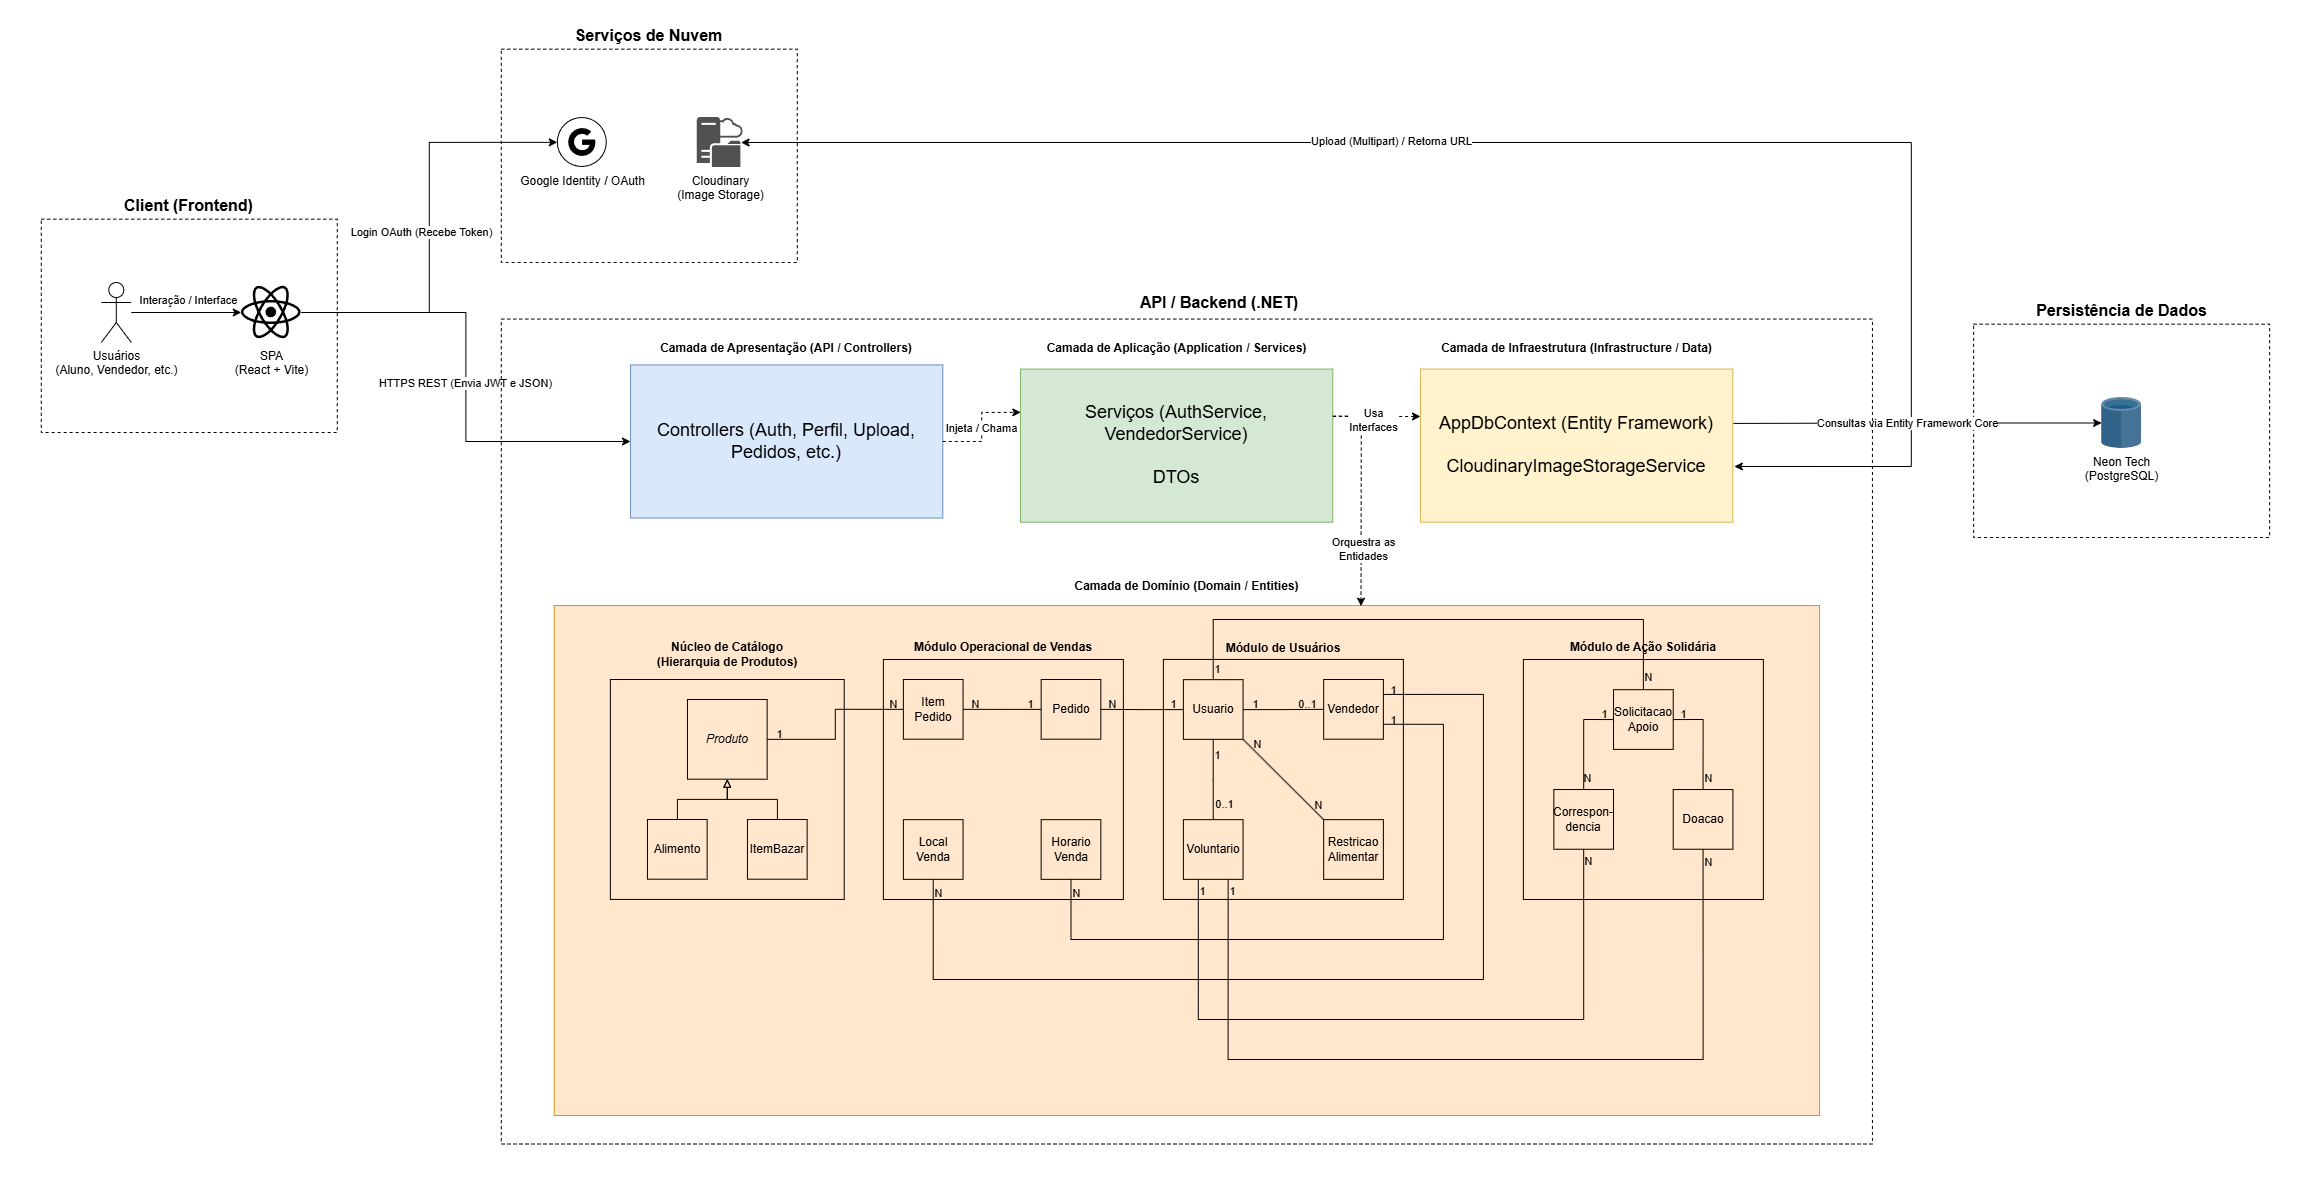
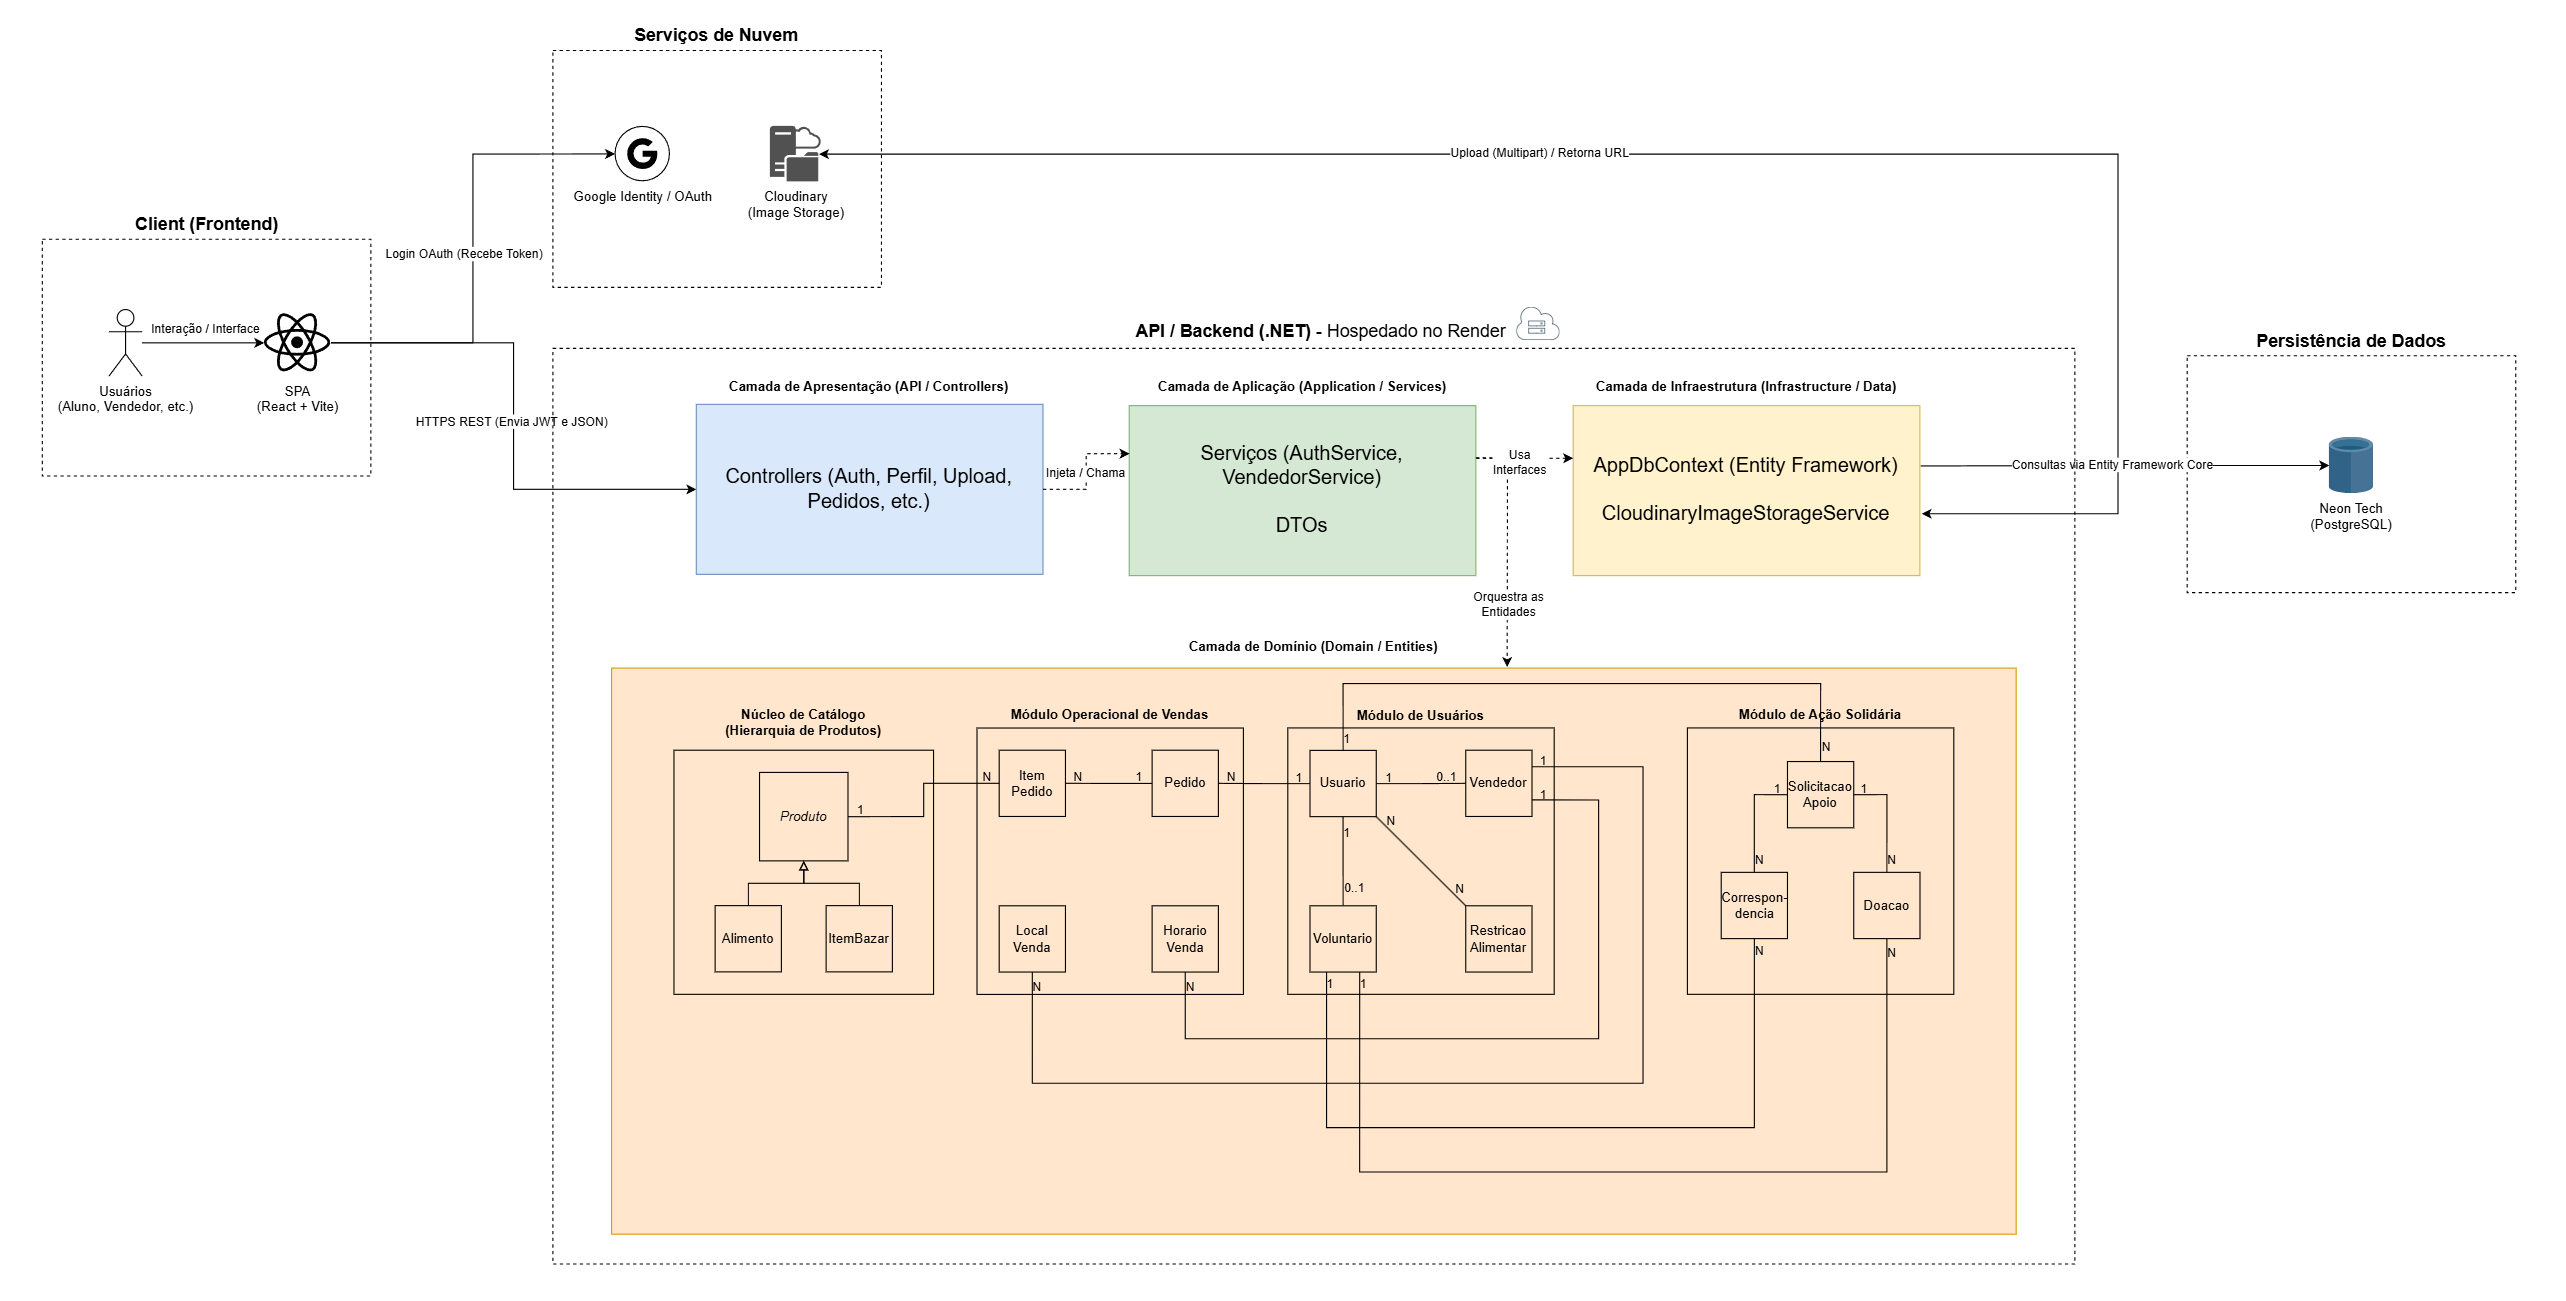
Adequações para o Deploy (#39)
* Adequações para o Deploy

* Add Issuer to JwtSettings in appsettings.json

* chore(deploy): habilita o swagger para a validacao da Sprint 3

* novo diagrama arquitetural

diff --git a/Backend/Program.cs b/Backend/Program.cs
@@ -15,8 +15,16 @@ using UniHub.Infrastructure.Repositories;
 using UniHub.Application.Interfaces.AcaoSolidaria;
 using UniHub.Infrastructure.Repositories.AcaoSolidaria;
 
-
 var builder = WebApplication.CreateBuilder(args);
+
+// Render (e containers em geral) definem a porta de escuta via variavel PORT
+// e esperam a app escutando em 0.0.0.0. Localmente PORT nao existe, entao o
+// launchSettings continua valendo e o fluxo de desenvolvimento nao muda.
+var port = Environment.GetEnvironmentVariable("PORT");
+if (!string.IsNullOrWhiteSpace(port))
+{
+    builder.WebHost.UseUrls($"http://0.0.0.0:{port}");
+}
 
 builder.Services.AddControllers();
 
@@ -26,9 +34,18 @@ builder.Services.Configure<CloudinarySettings>(
 builder.Services.AddSingleton<IImageStorageService, CloudinaryImageStorageService>();
 
 builder.Services.AddDbContext<AppDbContext>(options =>
-    options.UseNpgsql(builder.Configuration.GetConnectionString("DefaultConnection"))
-           .EnableSensitiveDataLogging() // mostra os valores reais dos parametros no log
-           .LogTo(Console.WriteLine, Microsoft.Extensions.Logging.LogLevel.Information));
+{
+    options.UseNpgsql(builder.Configuration.GetConnectionString("DefaultConnection"));
+
+    // EnableSensitiveDataLogging expoe valores reais dos parametros (inclusive
+    // dados pessoais) no log -- util para depurar localmente, mas um risco de
+    // vazamento (e de violacao da LGPD) em producao. Fica restrito a Development.
+    if (builder.Environment.IsDevelopment())
+    {
+        options.EnableSensitiveDataLogging()
+               .LogTo(Console.WriteLine, Microsoft.Extensions.Logging.LogLevel.Information);
+    }
+});
 
 builder.Services.AddScoped<AuthService>();
 builder.Services.AddScoped<VendedorService>();
@@ -104,9 +121,21 @@ builder.Services.AddCors(options =>
         }
         else
         {
-            // Em produção, usa o WithOrigins para travar a API apenas para o domínio oficial
-            // Colocamos URLs de exemplo que a equipe do Front poderá ajustar depois
-            policy.WithOrigins("https://unihub.com.br", "https://unihub-app.vercel.app") 
+            // Em producao, trava a API apenas para o(s) dominio(s) oficial(is) do
+            // frontend. As origens vem da configuracao "Cors:AllowedOrigins"
+            // (definida via variavel de ambiente Cors__AllowedOrigins__0,
+            // Cors__AllowedOrigins__1, ...), com fallback para os dominios de
+            // exemplo caso nada seja configurado.
+            var allowedOrigins = builder.Configuration
+                .GetSection("Cors:AllowedOrigins")
+                .Get<string[]>();
+
+            if (allowedOrigins is null || allowedOrigins.Length == 0)
+            {
+                allowedOrigins = ["https://unihub.com.br", "https://unihub-app.vercel.app"];
+            }
+
+            policy.WithOrigins(allowedOrigins)
                   .AllowAnyMethod()
                   .AllowAnyHeader();
         }
@@ -115,11 +144,13 @@ builder.Services.AddCors(options =>
 
 var app = builder.Build();
 
-if (app.Environment.IsDevelopment())
-{
-    app.UseSwagger();
-    app.UseSwaggerUI();
-}
+// Swagger habilitado tambem em producao para validacao/testes online da API
+// durante a Sprint 3 (frontend ainda nao desenvolvido). O time testa via
+// Swagger + "Authorize" com token obtido no Google OAuth Playground.
+// TODO: considerar restringir/desligar apos a entrega, quando o front assumir.
+app.UseSwagger();
+app.UseSwaggerUI();
+
 
 app.UseCors("PermitirFrontend");
 
@@ -128,5 +159,13 @@ app.UseAuthentication();
 app.UseAuthorization();
 
 app.MapControllers();
+
+// Health check leve e publico. Serve a dois propositos:
+// 1. Render usa para saber se o servico subiu com sucesso.
+// 2. Pode ser pingado por um cron (ex: cron-job.org) a cada ~10min para evitar
+//    o spin down do plano free (15min de inatividade) e para "aquecer" o Neon
+//    antes do teste de concorrencia, mitigando o cold start.
+app.MapGet("/health", () => Results.Ok(new { status = "ok", time = DateTime.UtcNow }))
+   .AllowAnonymous();
 
 app.Run();

diff --git a/DEPLOY.md b/DEPLOY.md
@@ -1,0 +1,222 @@
+# Deploy da API UniHub — Render + Neon
+
+Runbook do **Squad 4 (Deploy)**. Descreve como publicar a API .NET 10 no
+**Render** (plano free), mantendo o banco no **Neon** (Postgres serverless),
+conforme decisão do time.
+
+> **Por que Render e não AWS EC2 / RDS?** O enunciado original mencionava
+> EC2 + RDS, mas o time optou por **Neon** (Postgres serverless, scale-to-zero,
+> branching por squad) e **Render** para a API (sem cartão de crédito, HTTPS
+> automático, deploy a partir do repositório). Vale registrar essa justificativa
+> na apresentação final para antecipar a pergunta da banca.
+
+---
+
+## 1. Arquitetura de deploy
+
+```
+  Frontend (React + Vite, hospedado à parte)
+            │  HTTPS
+            ▼
+  Render  ──►  Container Docker da API (.NET 10, plano free)
+            │  Postgres via SSL (connection string com pooling)
+            ▼
+  Neon (Postgres serverless)
+            ▲
+  Cloudinary (armazenamento de imagens, chamado pela API)
+```
+
+- A API sobe como **container Docker** (`Backend/Dockerfile`).
+- O Render fornece **HTTPS automático** em `https://<nome>.onrender.com`.
+- Nenhum segredo fica no repositório — tudo vem de **variáveis de ambiente**
+  no painel do Render (seção 4).
+
+---
+
+## 2. Arquivos de deploy neste repositório
+
+| Arquivo | Papel |
+|---|---|
+| `Backend/Dockerfile` | Build multi-stage da API (.NET 10), imagem enxuta. |
+| `Backend/.dockerignore` | Evita enviar segredos/lixo para a imagem. |
+| `Backend/appsettings.Production.json` | Overrides de produção (logging). **Sem segredos.** |
+| `render.yaml` | Blueprint do serviço Render (infra como código). |
+| `.github/workflows/ci.yml` | CI: build + checagem de migrations + build Docker. |
+| `Backend/Program.cs` | Lê `PORT`; expõe `/health`; CORS por env var; log sensível só em Development. |
+| `Backend/appsettings.json` | Chave JWT como placeholder (segredo nunca versionado). |
+
+---
+
+## 3. Pré-requisitos
+
+- Conta no [Render](https://render.com) (login com o GitHub da organização).
+- Acesso ao projeto no **Neon** e à *connection string com pooling*.
+- Credenciais do **Cloudinary** (CloudName, ApiKey, ApiSecret).
+- Uma chave para o **JWT** com **pelo menos 32 caracteres** (gere uma nova —
+  a antiga, que esteve versionada, é considerada comprometida).
+
+---
+
+## 4. Variáveis de ambiente de produção
+
+O ASP.NET Core mapeia variáveis de ambiente para a configuração usando `__`
+(duplo underline) no lugar de `:`. Defina todas no painel do Render
+(**Environment**) ou deixe o `render.yaml` solicitá-las na criação do Blueprint.
+
+| Variável | Exemplo / Observação |
+|---|---|
+| `ASPNETCORE_ENVIRONMENT` | `Production` (ativa CORS restrito e desliga Swagger). |
+| `ConnectionStrings__DefaultConnection` | String do Neon **com pooling e SSL** (seção 5). |
+| `JwtSettings__SecureKey` | Chave secreta ≥ 32 caracteres (nova). |
+| `Cloudinary__CloudName` | Do painel do Cloudinary. |
+| `Cloudinary__ApiKey` | Do painel do Cloudinary. |
+| `Cloudinary__ApiSecret` | Do painel do Cloudinary. |
+| `Cors__AllowedOrigins__0` | URL do frontend, ex.: `https://unihub-app.vercel.app`. |
+| `Cors__AllowedOrigins__1` | (Opcional) origem adicional. |
+| `PORT` | **Injetada automaticamente pelo Render** — não definir manualmente. |
+
+> ⚠ **Nunca** cole a connection string, a chave JWT ou segredos do Cloudinary
+> em arquivos versionados. O `appsettings.json` só tem placeholders.
+
+---
+
+## 5. Connection string do Neon (pooling + SSL)
+
+Use **sempre** o endpoint com pooling (o host costuma ter `-pooler` no nome).
+A conexão direta esgota o limite de conexões sob carga.
+
+Formato (Npgsql):
+
+```
+Host=<endpoint>-pooler.<regiao>.aws.neon.tech;Database=unihub;Username=<user>;Password=<senha>;SSL Mode=Require;Channel Binding=Require;Pooling=true
+```
+
+- `SSL Mode=Require` + `Channel Binding=Require`: o Neon exige TLS.
+- O Neon aceita conexões de qualquer IP com SSL por padrão, então **não é
+  necessário liberar IP** para o Render. (O IP de saída do plano free do Render
+  não é fixo, então restrição por IP não é recomendada aqui.)
+
+---
+
+## 6. Migrations desta sprint (aplicar ANTES do primeiro deploy)
+
+O banco de produção precisa ter **todas** as migrations do projeto aplicadas,
+nesta ordem:
+
+1. `InicialConsolidada` — schema base (usuários, produtos, pedidos, e as tabelas
+   de Ação Solidária no singular).
+2. `AdicionaChavePixVendedor` (#35) — coluna `ChavePix` em `Vendedores`.
+3. `AdicionaModuloAcaoSolidaria` (#38) — ajusta o módulo de Ação Solidária:
+   renomeia tabelas para o plural, converte `Categoria`/`AreasDeAtuacao` de
+   texto para enum (via `USING`), e adiciona as FKs com `Restrict`.
+
+> ⚠ **Atenção à migration #38:** ela faz conversão de tipo (`text` → `integer`)
+> usando cláusula `USING`. Isso só roda sem erro se as tabelas de Ação Solidária
+> estiverem **vazias** ou com dados convertíveis. Em produção limpa, é seguro.
+
+**A API NÃO aplica migrations automaticamente no startup** (proposital, para um
+deploy nunca rodar uma migration incompleta sob concorrência). O responsável
+(Guardião de Migrations) aplica manualmente:
+
+```bash
+cd Backend
+# Aponte a connection string para o Neon de produção nesta sessão:
+export ConnectionStrings__DefaultConnection="Host=...-pooler...;Database=unihub;...;SSL Mode=Require;Pooling=true"
+
+# Confira o que será aplicado (sem executar)
+dotnet ef migrations list
+
+# Aplique
+dotnet ef database update
+```
+
+> 💡 **Fluxo seguro (recomendado):** use o **branching do Neon** — crie uma
+> branch do banco, aplique e teste a migration nela primeiro, e só então aplique
+> na branch de produção. Se algo der errado, descarte a branch sem afetar nada.
+
+---
+
+## 7. Passo a passo do deploy
+
+### Opção A — via Blueprint (recomendada, usa `render.yaml`)
+
+1. No Render: **New** → **Blueprint**.
+2. Conecte o repositório `UniHub-University/UniHub` e selecione a branch `main`.
+3. O Render lê o `render.yaml` e cria o serviço `unihub-api`.
+4. Preencha os segredos marcados como `sync: false` (connection string, JWT,
+   Cloudinary) quando solicitado.
+5. Confirme e aguarde o primeiro build/deploy.
+
+### Opção B — serviço manual
+
+1. **New** → **Web Service** → conecte o repositório.
+2. **Runtime:** Docker. **Dockerfile Path:** `Backend/Dockerfile`.
+   **Docker Context:** `Backend`.
+3. **Plan:** Free.
+4. **Health Check Path:** `/health`.
+5. Adicione as variáveis de ambiente da seção 4.
+6. **Create Web Service**.
+
+---
+
+## 8. Cold start (Neon + Render free) — relevante para testes de carga
+
+Dois cold starts se somam no plano free:
+
+1. **Render** derruba o serviço após **15 min** sem tráfego; a próxima
+   requisição espera o container subir (~dezenas de segundos).
+2. **Neon** hiberna quando ocioso; a primeira query tem latência extra.
+
+Antes de medir o teste de concorrência **em produção**, "aqueça" os dois:
+
+```bash
+# Aquece o Render (sobe o container) e o Neon (primeira query).
+curl -s https://<nome>.onrender.com/health
+# Faça mais 1-2 chamadas que toquem o banco antes de iniciar a medição.
+```
+
+Para evitar o spin down durante uma demonstração, aponte um cron externo
+(ex.: cron-job.org) para `GET /health` a cada ~10 minutos. Lembrete: o plano
+free do Render tem cota de ~750h/mês por workspace — manter o serviço acordado
+24/7 consome quase toda a cota.
+
+---
+
+## 9. Teste de fumaça pós-deploy (fazer em produção, não só local)
+
+```bash
+BASE=https://<nome>.onrender.com
+
+# 1. Health check
+curl -s $BASE/health                                   # espera {"status":"ok",...}
+
+# 2. Rota protegida sem token deve dar 401
+curl -s -o /dev/null -w "%{http_code}
+" $BASE/api/perfil   # espera 401
+```
+
+Checklist de validação em produção:
+
+- [ ] `/health` responde 200.
+- [ ] Swagger **não** aparece em produção (só em Development) — esperado.
+- [ ] Rota `[Authorize]` rejeita chamada sem token (401).
+- [ ] Login Google emite JWT e rota protegida aceita o token.
+- [ ] CORS libera o domínio real do frontend e bloqueia os demais.
+- [ ] **Alimentação:** criar pedido decrementa estoque; concorrência não deixa estoque negativo.
+- [ ] **Bazar:** CRUD de item respeita o dono (não dá para editar item de outro vendedor).
+- [ ] **Ação Solidária:** criar/cancelar solicitação; listagem **nunca** expõe identidade do solicitante.
+- [ ] **PIX:** chave do vendedor aparece no detalhe do item, não na listagem.
+- [ ] **Moderação:** admin suspende conta e o usuário suspenso é bloqueado no login.
+
+---
+
+## 10. Troubleshooting
+
+| Sintoma | Causa provável | Ação |
+|---|---|---|
+| Deploy sobe mas health check falha / "no open ports" | App não escutou em `PORT`/`0.0.0.0` | Conferir o trecho de `PORT` no `Program.cs`; não sobrescrever `ASPNETCORE_URLS`. |
+| 500 no primeiro acesso a rota de banco | Connection string errada / sem pooling / sem SSL | Revisar `ConnectionStrings__DefaultConnection` (seção 5). |
+| 401 em toda rota protegida mesmo com token válido | `JwtSettings__SecureKey` diferente da usada para assinar | Garantir a mesma chave; ≥ 32 chars. |
+| CORS bloqueando o frontend | `Cors__AllowedOrigins__0` não bate com a URL real | Ajustar a origem (sem barra no final). |
+| Erro de migration / "cannot be cast automatically" | Conversão de tipo com dados existentes | Ver seção 6; tabelas devem estar vazias ou usar `USING`. Testar em branch do Neon. |
+| Primeira requisição do dia muito lenta | Cold start Render + Neon | Esperado no free; aquecer antes de medir (seção 8). |
